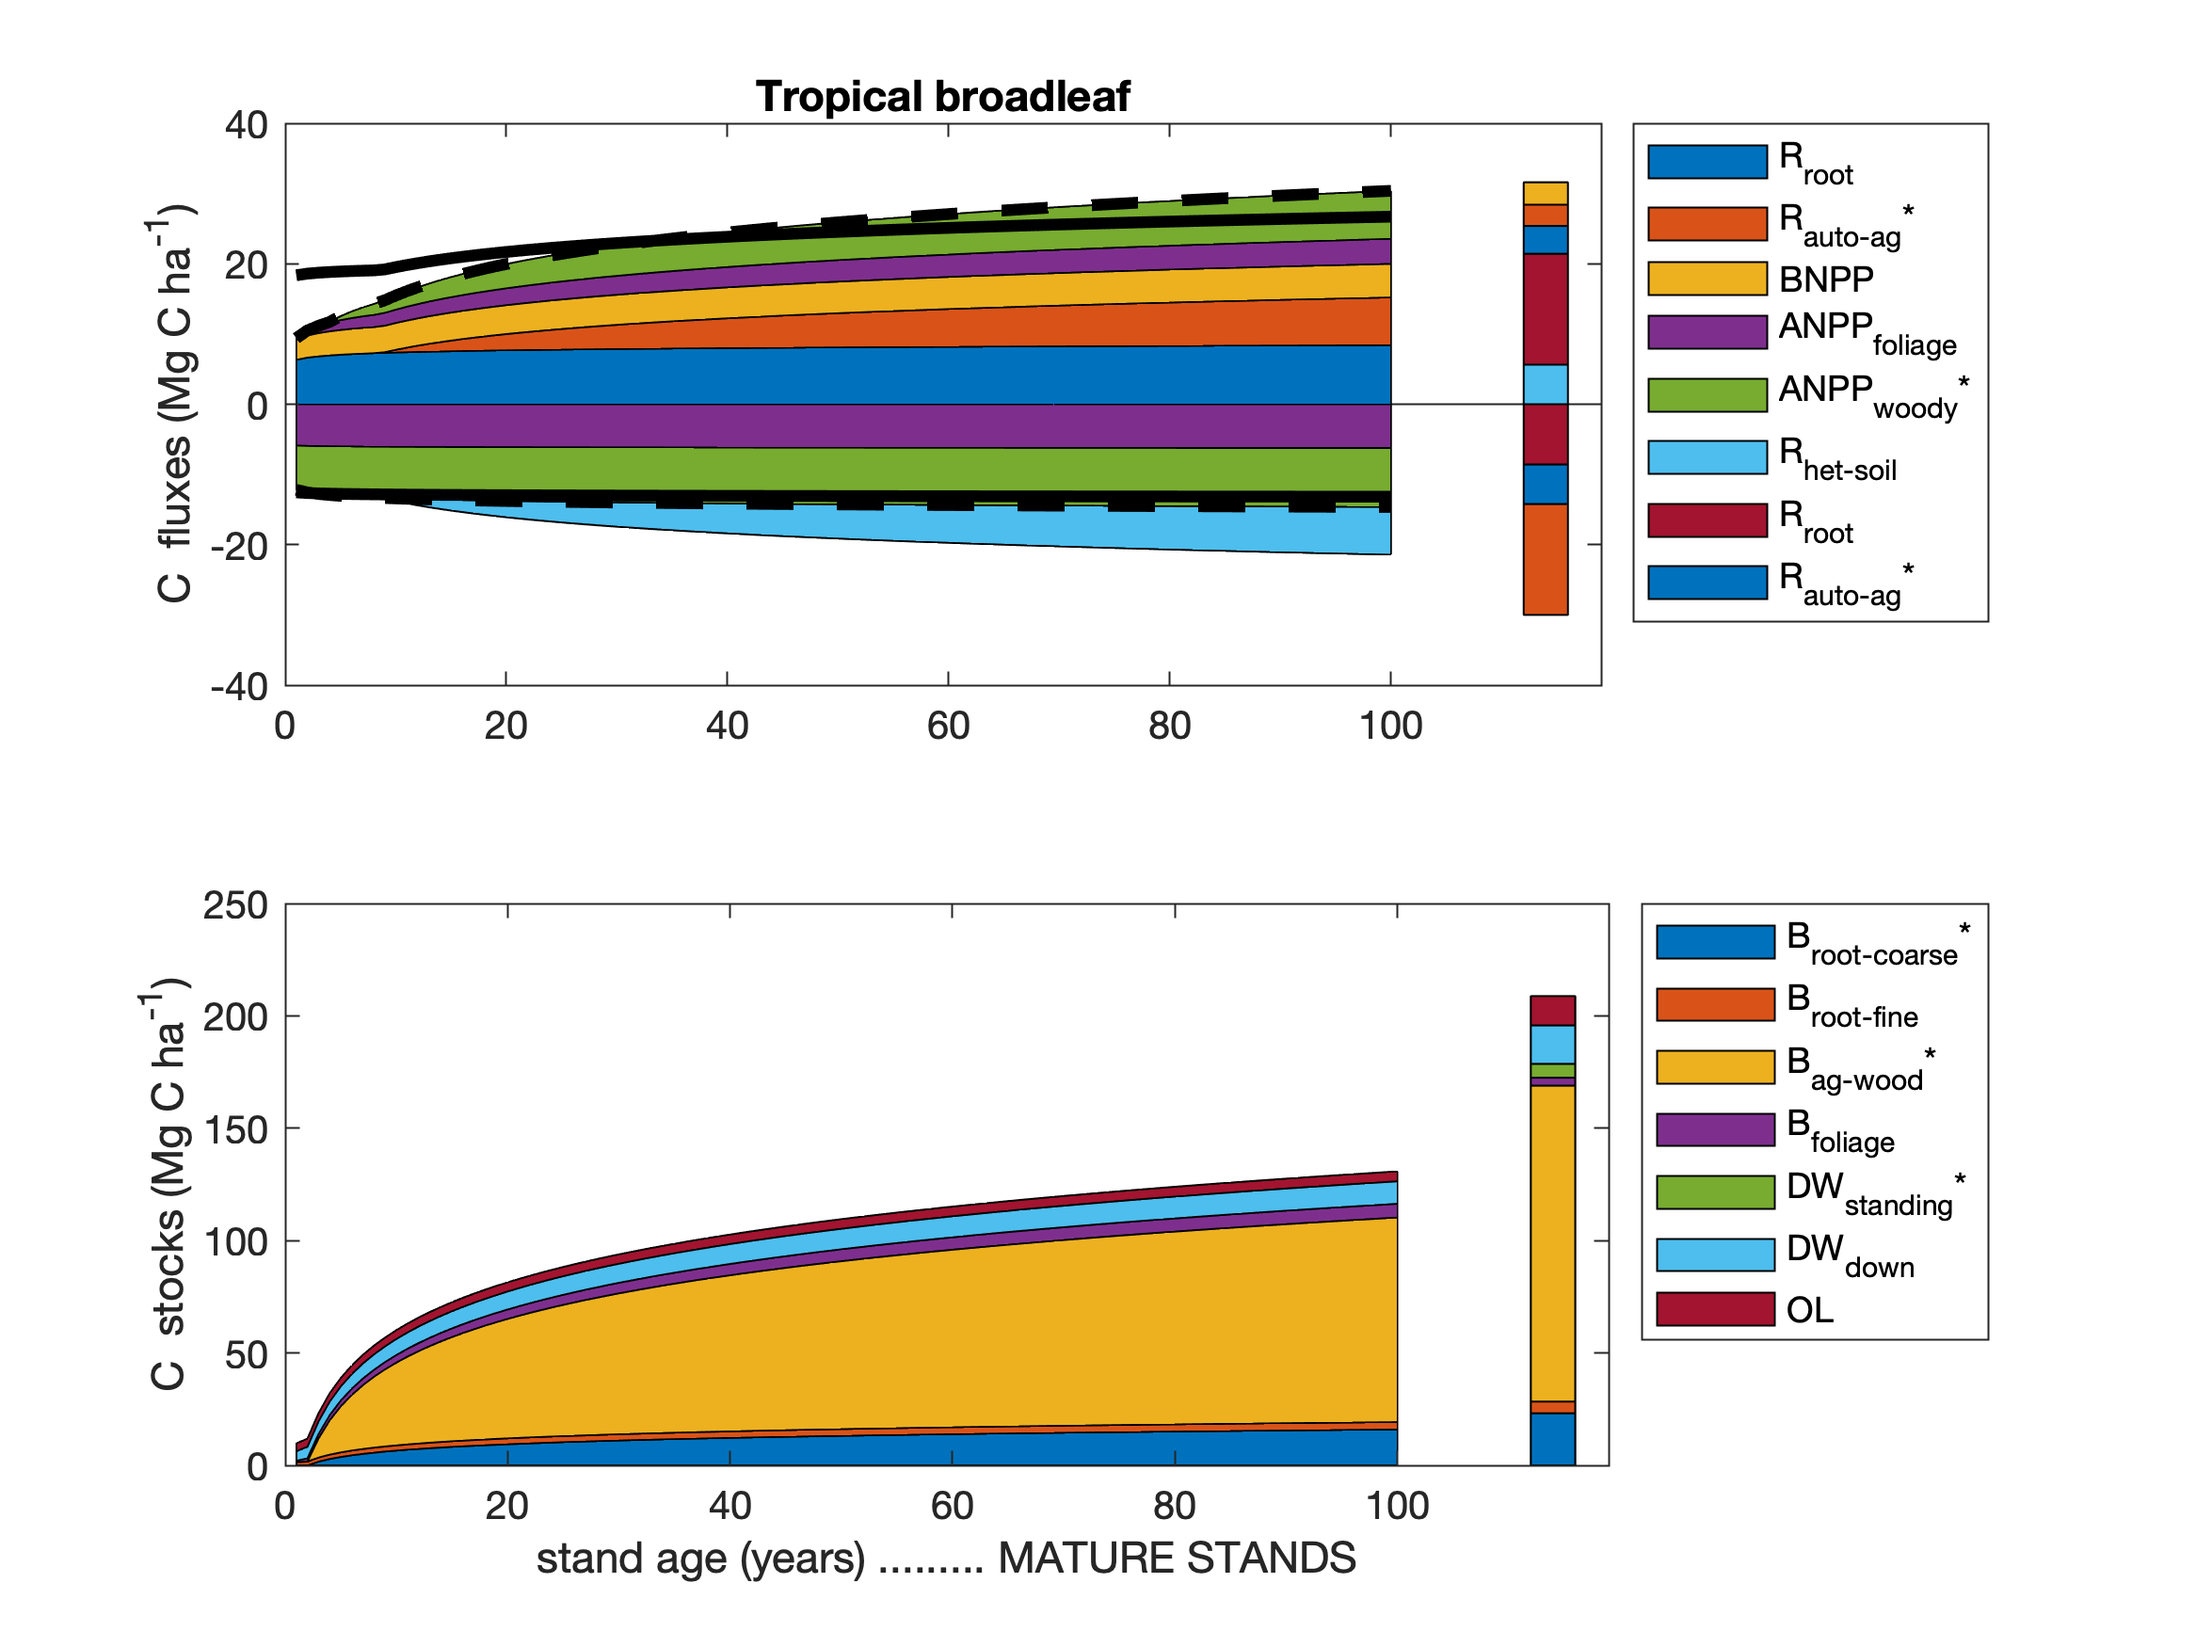
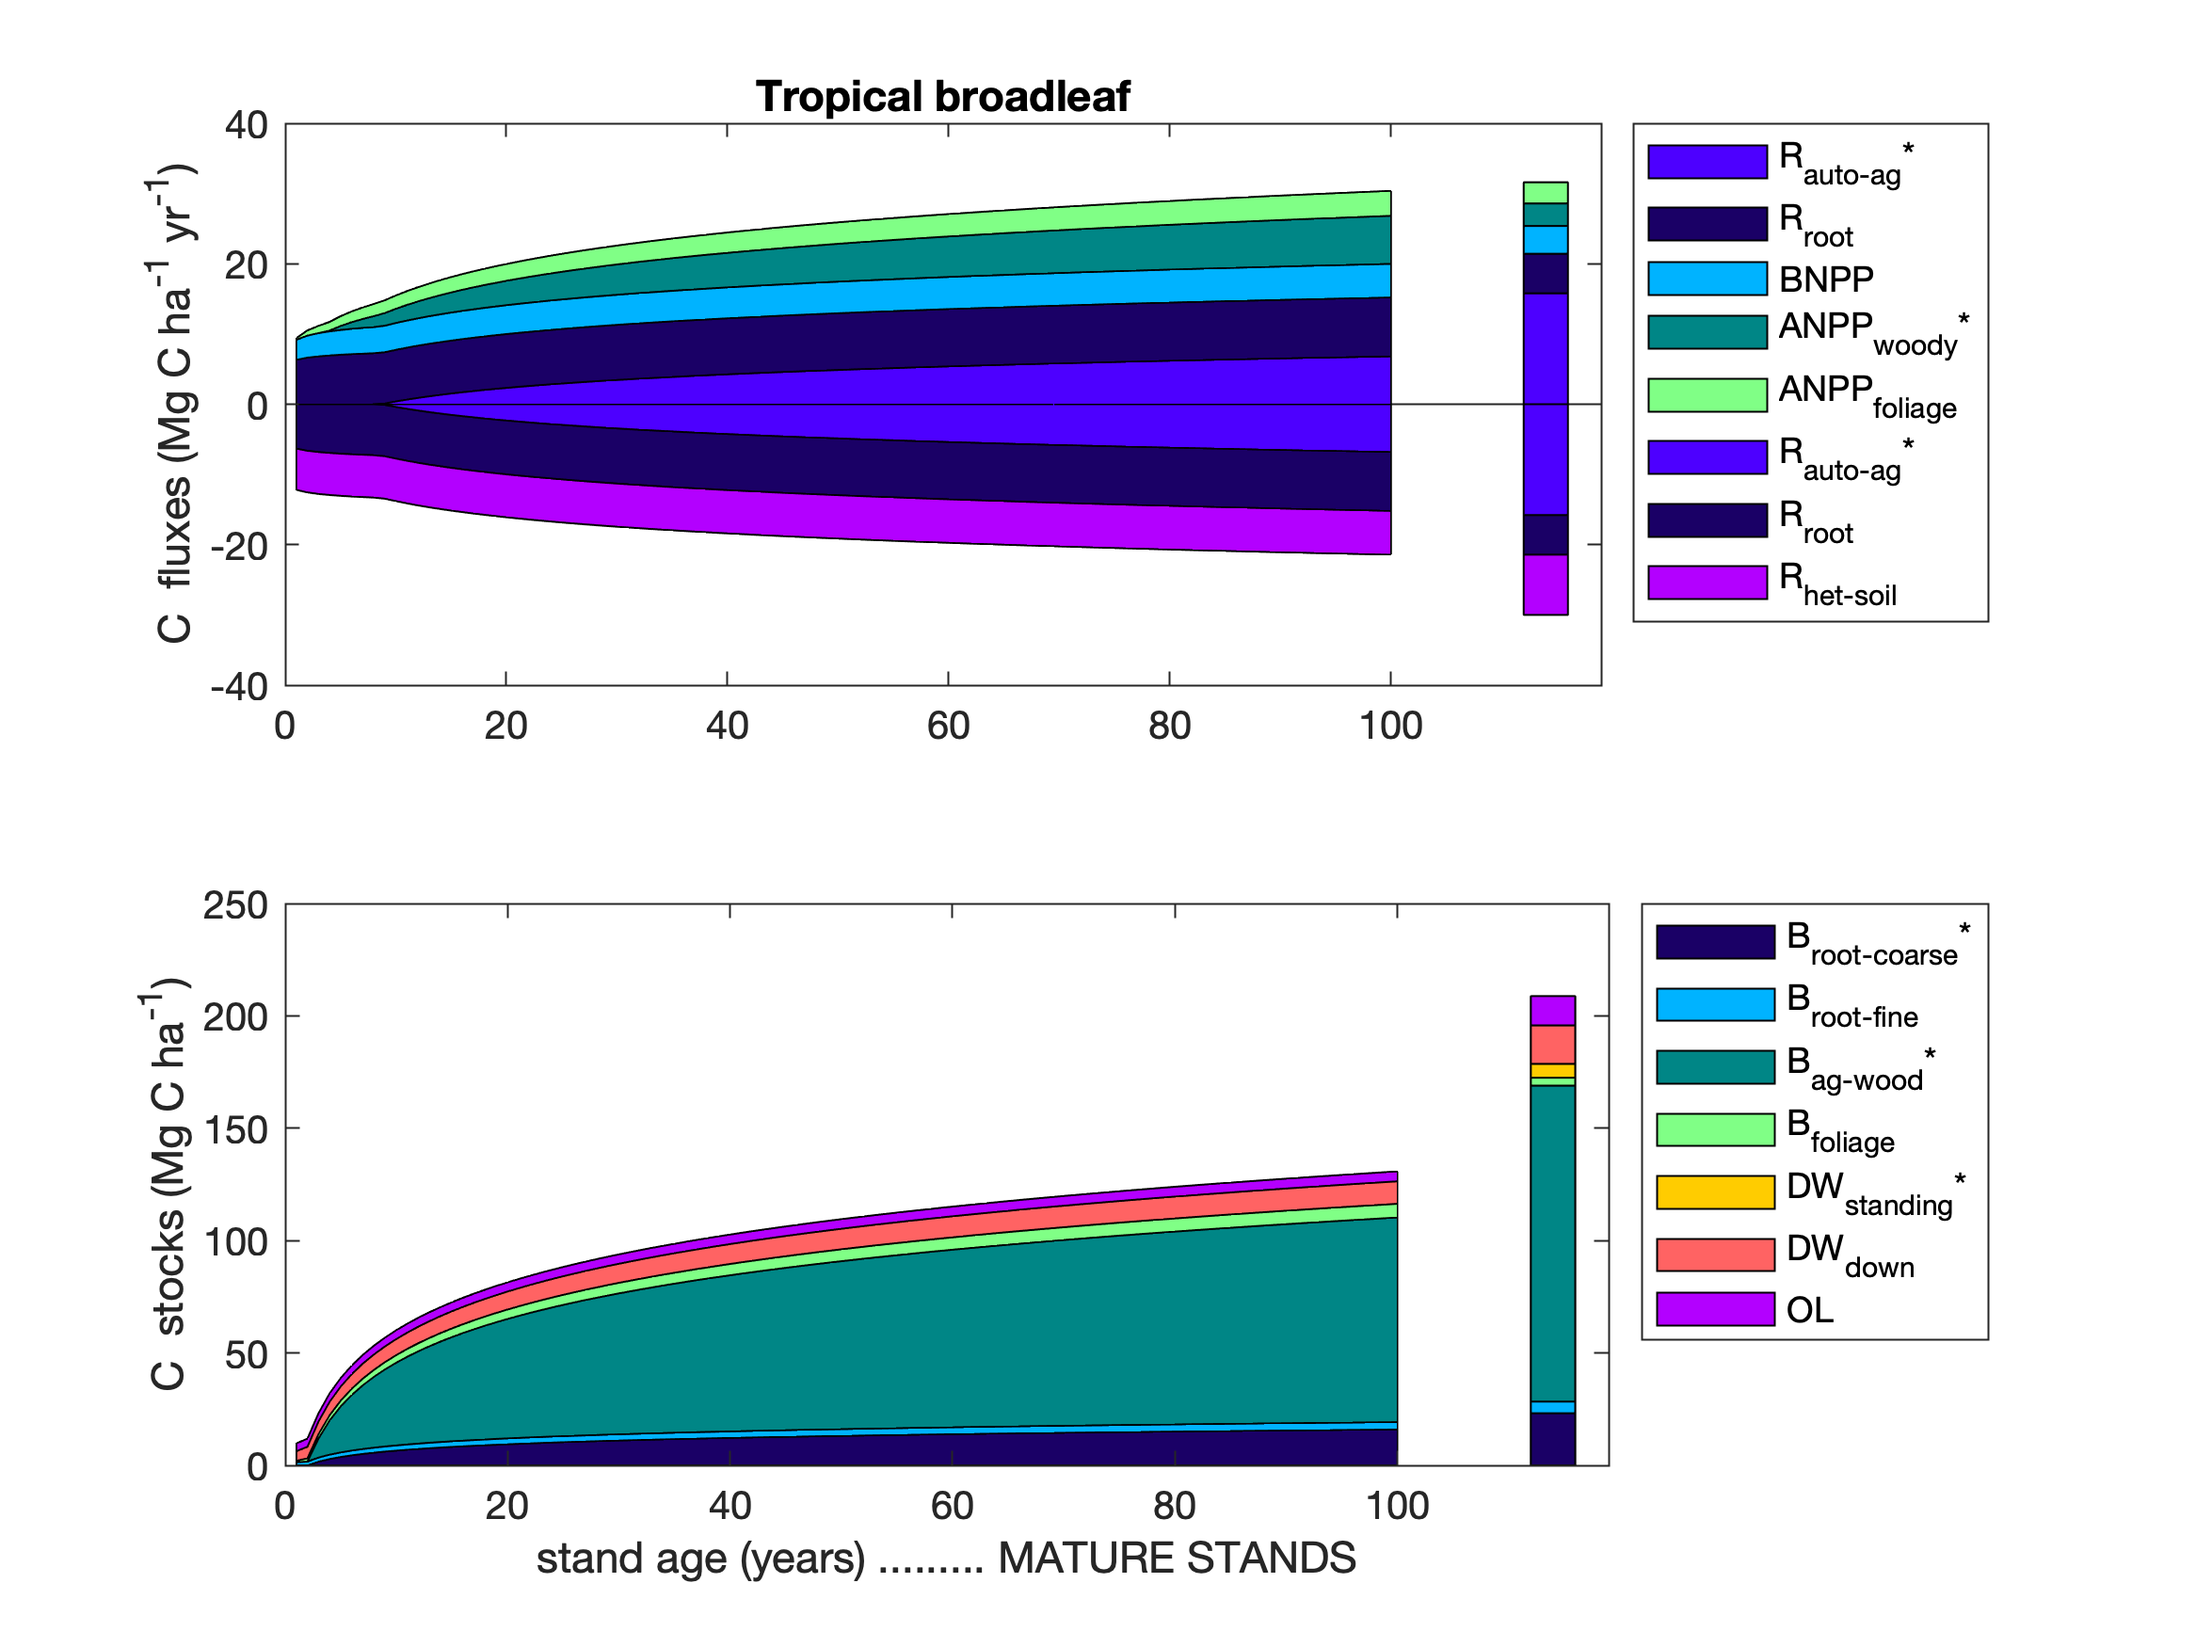
fix color scheme
#64

diff --git a/manuscript/tables_figures/stacked_age_trends/stacked_area_results.m b/manuscript/tables_figures/stacked_age_trends/stacked_area_results.m
@@ -169,14 +169,14 @@ BNPP_coarse_calc=max(0,BNPP-BNPP_fine);
 
 % 1.1.3 group for plotting
 % "in" (GPP components) 
-in_flux_names = {'R_{root}', 'R_{auto-ag}*', 'BNPP', 'ANPP_{foliage}', 'ANPP_{woody}*'};
-in_fluxes = [R_root; R_auto_ag_calc; BNPP; ANPP_foliage; ANPP_woody_calc ]; %matrix with all fluxes for stacked plot
+in_flux_names = {'R_{auto-ag}*', 'R_{root}',  'BNPP',  'ANPP_{woody}*','ANPP_{foliage}'};
+in_fluxes = [ R_auto_ag_calc; R_root; BNPP;  ANPP_woody_calc ;ANPP_foliage]; %matrix with all fluxes for stacked plot
 
 in_sum = sum(in_fluxes,1);
 
 % "out" (Reco components)
-out_flux_names = { 'R_{het-soil}', 'R_{root}', 'R_{auto-ag}*'};
-out_fluxes = [R_het_soil; R_root; R_auto_ag_calc ]; %matrix with all fluxes for stacked plot
+out_flux_names = { 'R_{auto-ag}*', 'R_{root}', 'R_{het-soil}'};
+out_fluxes = [ R_auto_ag_calc ; R_root; R_het_soil]; %matrix with all fluxes for stacked plot
 out_sum = sum(out_fluxes,1);
 
 % all fluxes
@@ -222,8 +222,8 @@ R_eco_mature=ForC_variable_averages.mean(R_eco_index);
 R_auto_ag_mature_calc=R_eco_mature-R_soil_mature;
 
 %for grouped stacked plot (%THIS NEEDS TO MATCH YOUNG STANDS, ABOVE)
-mature_in_fluxes= [R_root_mature R_auto_ag_mature_calc BNPP_mature ANPP_foliage_mature ANPP_woody_mature]; %in fluxes
-mature_out_fluxes= [-R_het_soil_mature -R_root_mature -R_auto_ag_mature_calc]; % out fluxes
+mature_in_fluxes= [ R_auto_ag_mature_calc R_root_mature  BNPP_mature ANPP_woody_mature ANPP_foliage_mature ]; %in fluxes
+mature_out_fluxes= [-R_auto_ag_mature_calc -R_root_mature  -R_het_soil_mature ]; % out fluxes
 mature_in_fluxes_matrix(b,1:length(mature_in_fluxes)) =mature_in_fluxes;
 mature_out_fluxes_matrix(b,1:length(mature_out_fluxes)) =mature_out_fluxes;
 
@@ -309,35 +309,66 @@ figure (b)
 subplot (2,1,1) %FLUXES
 
 h1a=area (age, in_fluxes'); hold on;
-h2a=area(112:116, mature_in_fluxes.*ones(5,size(mature_in_fluxes,1))); hold on;
+h2a=area(112:116, mature_in_fluxes.*ones(5,size(mature_in_fluxes,1)),'HandleVisibility','off'); hold on;
 
 h1b=area (age, -1*out_fluxes'); %, 'LineStyle','-'); 
-b2b=area(112:116, mature_out_fluxes.*ones(5,size(mature_out_fluxes,1))); hold on;
+h2b=area(112:116, mature_out_fluxes.*ones(5,size(mature_out_fluxes,1)),'HandleVisibility','off'); hold on;
 
 if b~= 1 
     plot(age, GPP, '-b', 'LineWidth', 3); hold on; % eddy flux: insufficient data for tropics
     plot(age, -R_eco, '-r', 'LineWidth', 3); % eddy flux: insufficient data for tropics
     %plot(age, -R_root-R_het_soil-R_auto_ag_calc, '--r', 'LineWidth', 3); % eddy flux: insufficient data for tropics
     plot(age, NEP, '-w', 'LineWidth', 3);hold on; % eddy flux: insufficient data for tropics
-    plot(age, NEP_calc, '--w', 'LineWidth', 3);hold on;
+    %plot(age, NEP_calc, '--w', 'LineWidth', 3);hold on;
 end
-plot(age, in_sum, '--k', 'LineWidth', 3); hold on;
-plot(age, R_auto_calc+NPP, '-k', 'LineWidth', 3);hold on;
-plot(age, -R_soil, '-k', 'LineWidth', 3);hold on;
-plot(age, -R_root-R_het_soil, '--k', 'LineWidth', 3);hold on;
+%plot(age, in_sum, '--k', 'LineWidth', 3); hold on;
+%plot(age, R_auto_calc+NPP, '-k', 'LineWidth', 3);hold on;
+%plot(age, -R_auto_ag_calc-R_soil, '-y', 'LineWidth', 3);hold on;
+%plot(age, -R_auto_ag_calc-R_root-R_het_soil, '--y', 'LineWidth', 3);hold on;
 
+
+facecolor_in_fluxes= [0.3 0 1;...  %'R_{auto-ag}*'
+                    0.1 0 .4;...  % 'R_{root}', 
+                    0 .7 1;...  %'BNPP'
+                    0 .527 .527;...%'ANPP_{woody}*'
+                    .5 1 .527 ]; %'ANPP_{foliage}',
+                
+facecolor_out_fluxes= [0.3 0 1;...  %'R_{auto-ag}*'
+                    0.1 0 .4;...  % 'R_{root}', 
+                     0.7 0 1]; %R_het_soil
+
+%set facecolor:
+    for n=1:length(mature_in_fluxes)
+        h1a(n).FaceColor= facecolor_in_fluxes(n,:);
+        h2a(n).FaceColor= facecolor_in_fluxes(n,:);
+    end
+    for n=1:length(mature_out_fluxes)
+        h1b(n).FaceColor= facecolor_out_fluxes(n,:);
+        h2b(n).FaceColor= facecolor_out_fluxes(n,:);
+    end
 xlim([0 119])
 t = title(biomes(b));
-ylabel ('C  fluxes (Mg C ha^{-1})')
+ylabel ('C  fluxes (Mg C ha^{-1} yr^{-1})')
 
 legend (flux_names, 'Location', 'BestOutside');
-
 
 
 subplot (2,1,2) %STOCKS
 h1=area (age, stocks'); hold on;
 h2=area(112:116, mature_stocks.*ones(5,size(mature_stocks,1))); hold on;
 
+facecolor_stocks= [0.1 0 .4;...  %'B_{root-coarse}*', ' 
+                    0 .7 1;... % 'B_{root-fine}',
+                    0 .527 .527 ;... % 'B_{ag-wood}*', 
+                    .5 1 .527;... % B_{foliage}',
+                    1 .8 0;...  % 'DW_{standing}*', 
+                    1 99/255 99/255 ;... % 'DW_{down}',
+                    0.7 0 1 ];... %'OL'
+%set facecolor:
+    for n=1:length(mature_stocks)
+        h1(n).FaceColor= facecolor_stocks(n,:);
+        h2(n).FaceColor= facecolor_stocks(n,:);
+    end
 %compare biomass from different estimation methods:
 %plot(age, B_tot, '-k', 'LineWidth', 3);
 %plot(age, B_tot_calc, '--k', 'LineWidth', 3);
